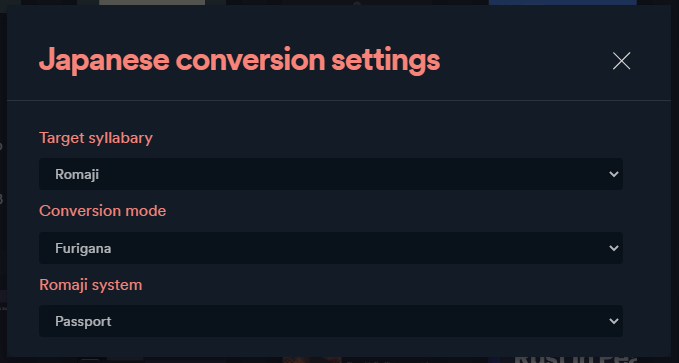
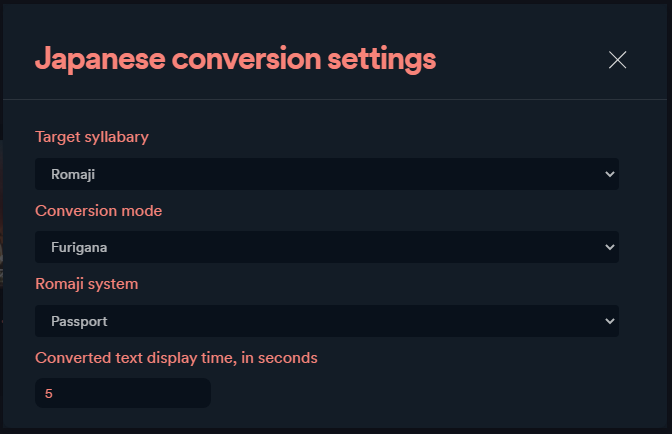
docs(romaji-convert): Update readme

diff --git a/extensions/romaji-convert/README.md b/extensions/romaji-convert/README.md
@@ -20,6 +20,6 @@ The conversion settings can be changed from the top right menu.
 
 ![preview](https://raw.githubusercontent.com/Pithaya/spicetify-apps/main/extensions/romaji-convert/docs/settings-button.png)
 
-You can then select the syllabary you want to convert to (hiragana, katakana, or romaji) and the conversion mode (normal, okurigana, furigana...).
+You can then select the syllabary you want to convert to (hiragana, katakana, or romaji), the conversion mode (normal, okurigana, furigana...), and how long the converted text should be displayed.
 
 ![preview](https://raw.githubusercontent.com/Pithaya/spicetify-apps/main/extensions/romaji-convert/docs/settings-menu.png)
